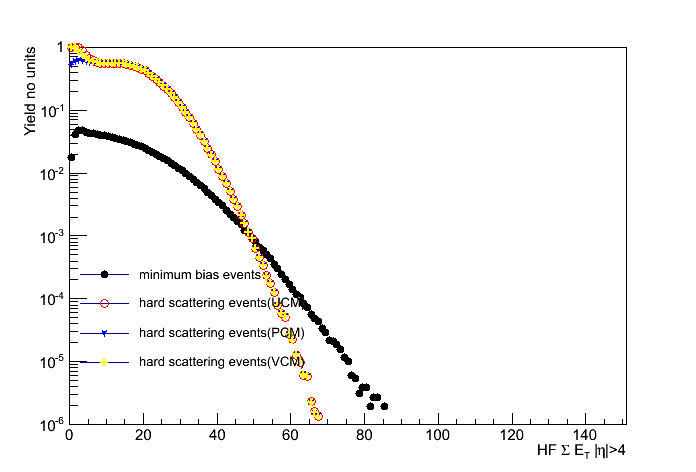
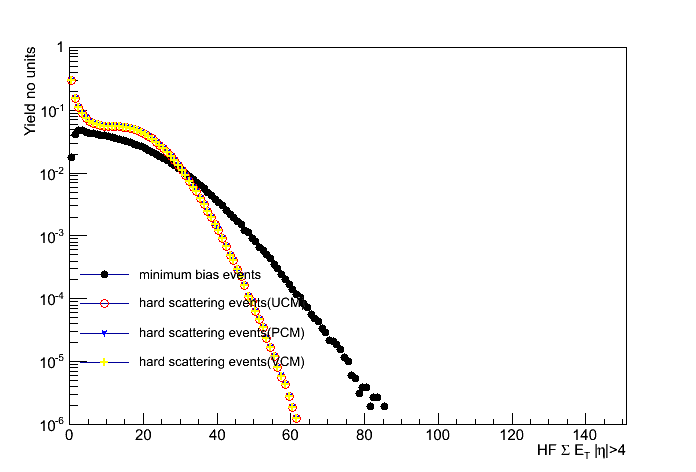
bias

diff --git a/centrality/Bias/hPYphocalc.C b/centrality/Bias/hPYphocalc.C
@@ -29,8 +29,8 @@ void hPYphocalc(){
 	TVectorD* centbin = (TVectorD*)f->Get(Form("%s/%s/centbin",dirname.Data(),name.Data()));
 
         TFile *fGlauber = TFile::Open(Glaubername->GetName());
-        (*k0)[0]=1.39;  (*kbest)[0]=0.425;
-        (*theta0)[0]=3.41;      (*thetabest)[0]=1.30;
+        //(*k0)[0]=1.39;  (*kbest)[0]=0.425;
+        //(*theta0)[0]=3.41;      (*thetabest)[0]=1.30;
         TF1 *gammafun[maxNpart];
         TF1 *gammafunevt[maxNpart];
         TF1 *gammafunnucl[maxNpart];
@@ -136,12 +136,12 @@ void hPYphocalc(){
 	hFrame->GetXaxis()->SetTitle("HF #Sigma E_{T} |#eta|>4");
 	hFrame->GetYaxis()->SetTitle("Yield no units");
 	hFrame->GetXaxis()->SetRangeUser(0,150);
-	hFrame->GetYaxis()->SetRangeUser(1e-6,1e2);
+	hFrame->GetYaxis()->SetRangeUser(1e-6,1);
 	hFrame->Draw();
 	histo_obs_norm->SetMarkerStyle(20);
 	histo_obs_norm->SetMarkerSize(1.0);
 	histo_obs_norm->SetMarkerColor(1);
-	//histo_obs_norm->Draw("Psame");
+	histo_obs_norm->Draw("Psame");
 	hUCM->SetMarkerStyle(24);
 	hUCM->SetMarkerSize(1.0);
 	hUCM->SetMarkerColor(2);
@@ -165,14 +165,14 @@ void hPYphocalc(){
 	leg->AddEntry(hPCM,"hard scattering events(PCM)","lp");
 	leg->AddEntry(hVCM,"hard scattering events(VCM)","lp");
 	leg->Draw("same");
-	c1->Print("paperfig3.png");
+	c1->Print("paperfig3_CMS.png");
 	c2->cd();
 	gStyle->SetOptStat("nemr");
 	NcollvsET->GetXaxis()->SetTitle("Ncoll");
 	NcollvsET->GetYaxis()->SetTitle("HF #Sigma E_{T} |#eta|>4");
 	NcollvsET->Draw("colz");
 	c2->Print("NcollvsET2D.png");
-	ofstream fstr("result.dat");
+	ofstream fstr("result_CMS.dat");
 	fstr<<"i"<<"\t"<<"centbin"<<"\t"<<"kpoint"<<"\t"<<"UCM"<<"\t"<<"PCM"<<"\t"<<"VCM"<<"\t"<<"pho1"<<"\t"<<"pho2"<<"\t"<<"MB"<<endl;
 	for(int i=0;i<N-1;i++){
 		fstr<<i<<"\t"<<(*centbin)[i]*100<<"% to "<<(*centbin)[i+1]*100<<"% \t"<<(*kpoint)[i]<<" to "<<(*kpoint)[i+1]<<"\t"<<yUCM[i]<<"\t"<<yPCM[i]<<"\t"<<yVCM[i]<<"\t"<<yPCM[i]/yUCM[i]<<"\t"<<yVCM[i]/yUCM[i]<<"\t"<<"undetermined"<<endl;
